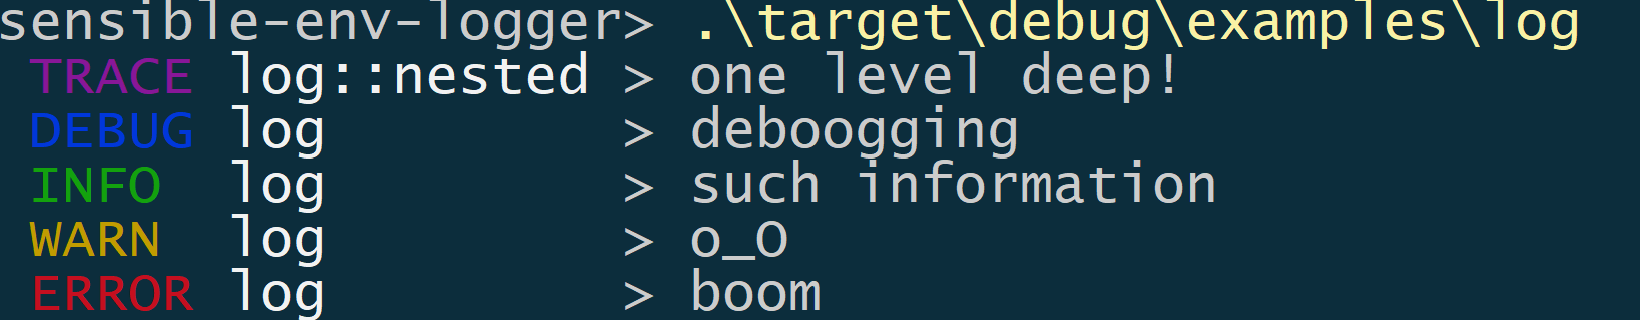
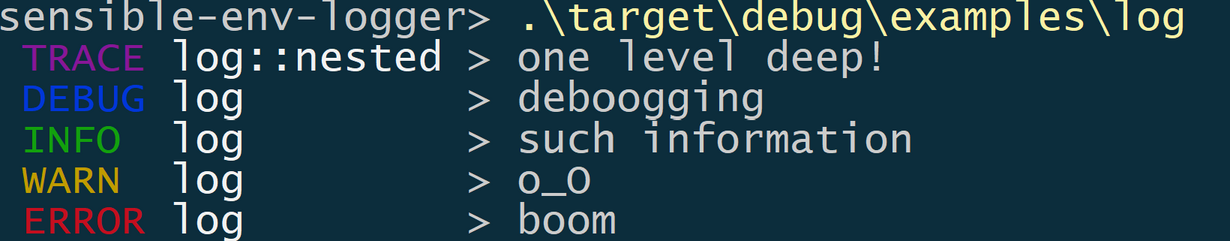
Update stuff

diff --git a/README.md b/README.md
@@ -10,7 +10,7 @@
 This is a thin wrapper around [pretty_env_logger]. It requires minimal configuration to set up, and writes
 to standard error with nice colored output for log levels.
 
-![example-output](readme-example3.png)
+![example-output](readme-example2.png)
 
 [pretty_env_logger]: https://docs.rs/pretty_env_logger
 
